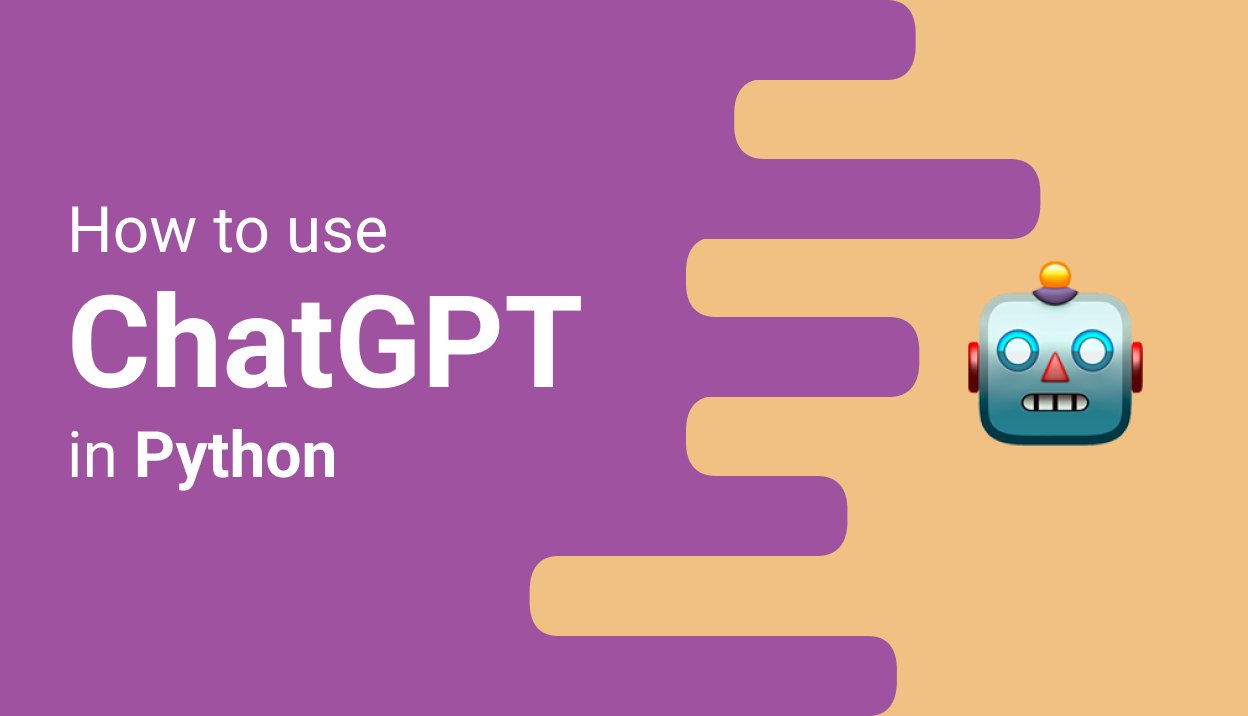
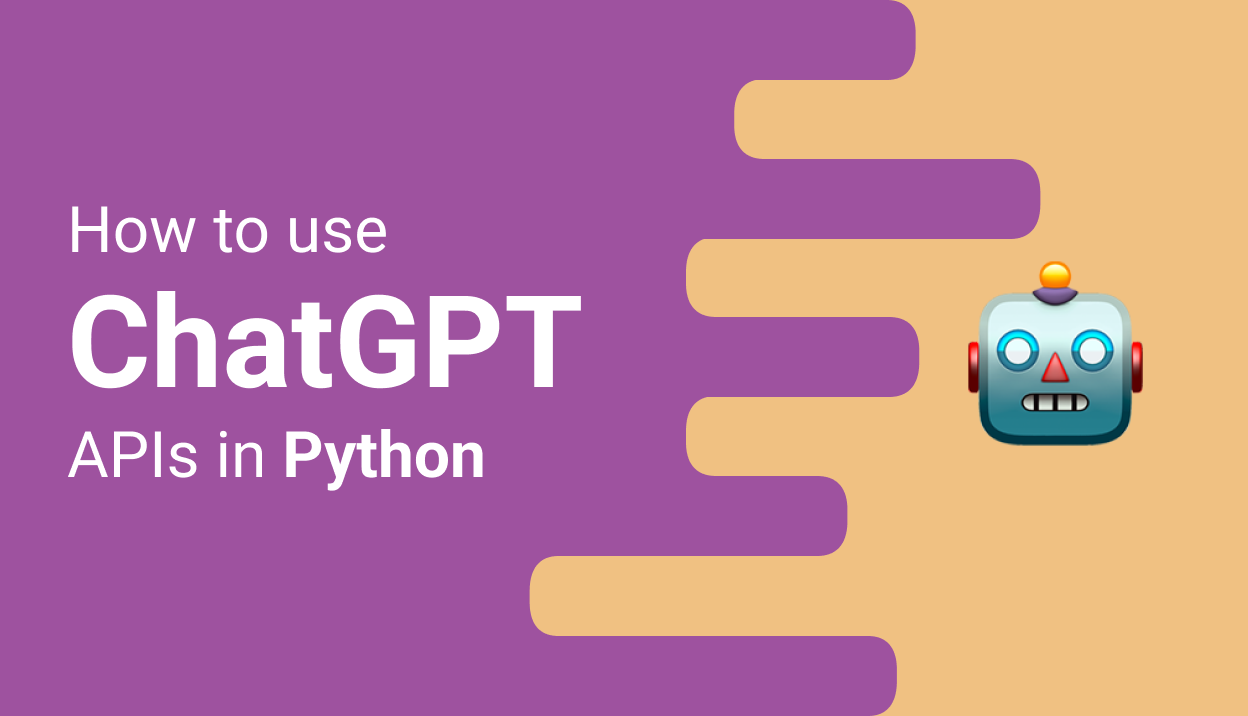
minor changes

Changed region(s): [[0.0312, 0.5838, 0.4062, 0.7067]]

diff --git a/README.md b/README.md
@@ -1,6 +1,6 @@
 ![alt](images/header.png)
 
-# How to use ChatGPT with Python 🤖🐍
+# How to use ChatGPT APIs in Python 🤖🐍
 
 *Hey, I am on [LinkedIn](https://www.linkedin.com/in/francesco-saverio-zuppichini-94659a150/) come and say hi 👋*
 
